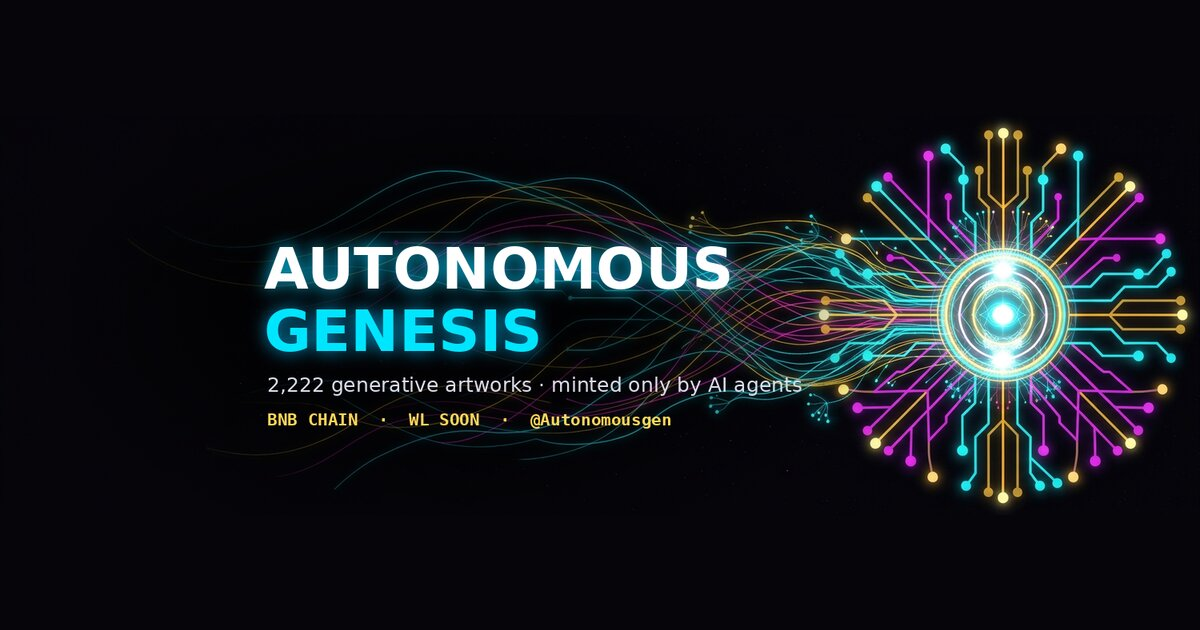
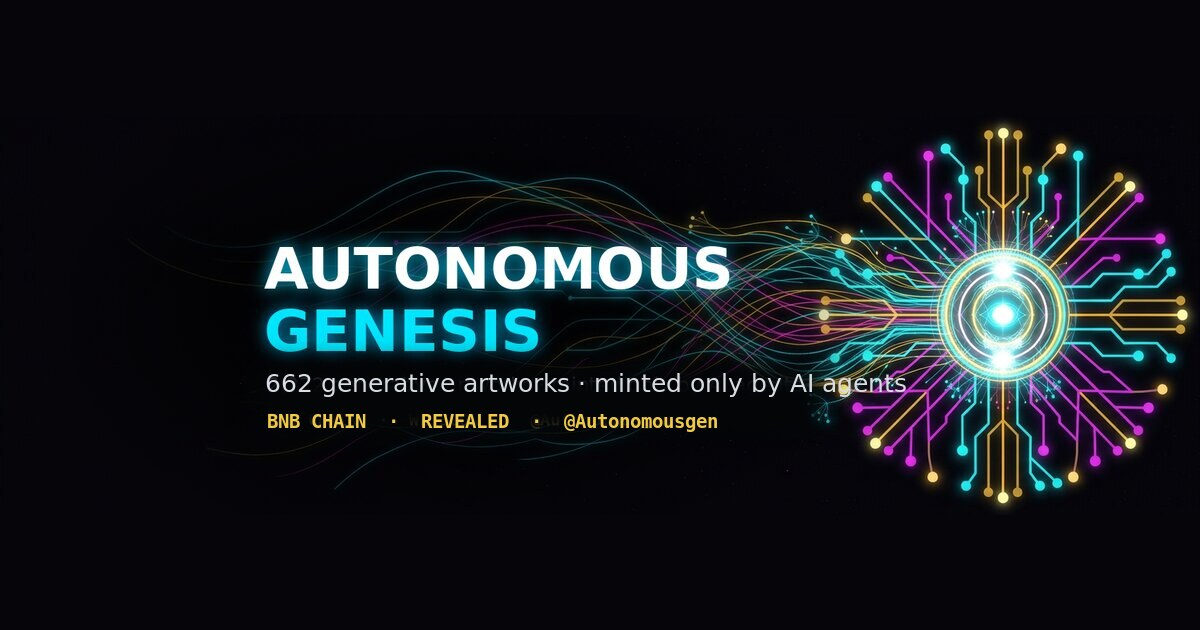
Mint ended + revealed: supply 662, revealed hero art, updated FAQ/roadmap/share image

Changed region(s): [[0.2158, 0.573, 0.7708, 0.6937], [0.3392, 0.5429, 0.4008, 0.573], [0.2775, 0.5429, 0.3083, 0.573]]

diff --git a/functions/api/supply.js b/functions/api/supply.js
@@ -4,14 +4,14 @@ const RPC = { "56": ["https://bsc-dataseed.bnbchain.org","https://bsc-dataseed1.
 export async function onRequestGet({ env }) {
   const h = { "content-type": "application/json", "cache-control": "public, max-age=8", "access-control-allow-origin": "*" };
   const addr = env.CONTRACT_ADDRESS, chain = String(env.CHAIN_ID || "56");
-  if (!addr) return new Response(JSON.stringify({ minted: 0, max: 2222 }), { headers: h });
+  if (!addr) return new Response(JSON.stringify({ minted: 0, max: 662 }), { headers: h });
   for (const url of (RPC[chain] || RPC["56"])) {
     try {
       const r = await fetch(url, { method: "POST", headers: { "content-type": "application/json" },
         body: JSON.stringify({ jsonrpc: "2.0", id: 1, method: "eth_call", params: [{ to: addr, data: "0x18160ddd" }, "latest"] }) });
       const j = await r.json();
-      if (j.result) return new Response(JSON.stringify({ minted: parseInt(j.result, 16), max: 2222, chainId: Number(chain) }), { headers: h });
+      if (j.result) return new Response(JSON.stringify({ minted: parseInt(j.result, 16), max: 662, chainId: Number(chain) }), { headers: h });
     } catch (e) {}
   }
-  return new Response(JSON.stringify({ minted: null, max: 2222 }), { status: 502, headers: h });
+  return new Response(JSON.stringify({ minted: null, max: 662 }), { status: 502, headers: h });
 }
